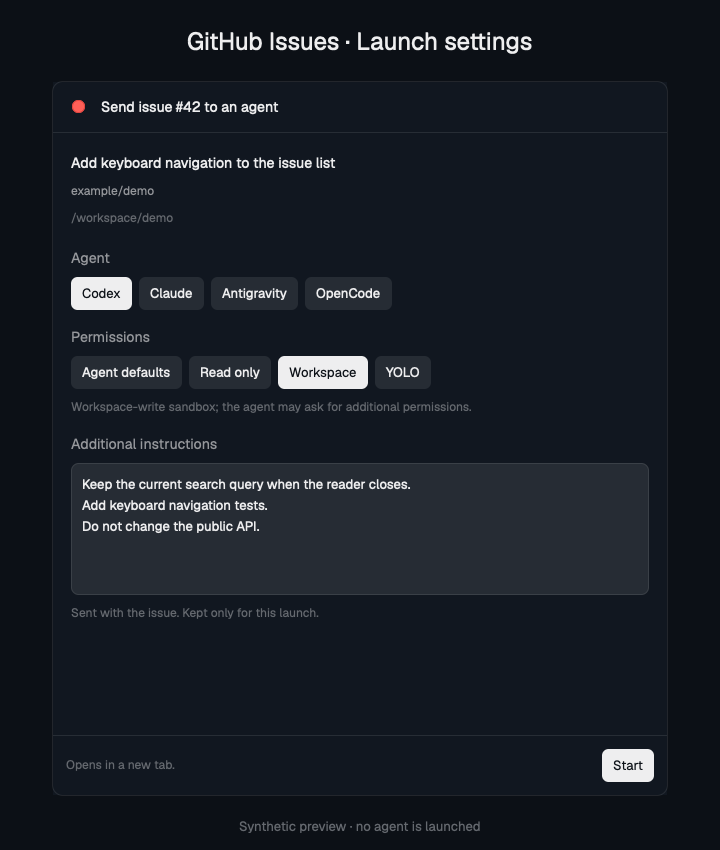
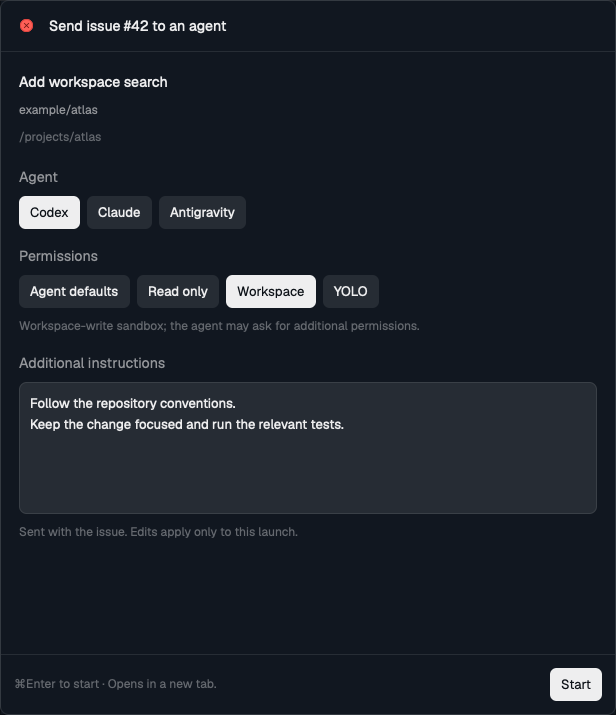
Prioritize working issues and refresh Issues screenshots

diff --git a/github-issues/mods/github-issues/main.js b/github-issues/mods/github-issues/main.js
@@ -44,6 +44,14 @@ export function workingIssueUrls(liveTerminals) {
   return new Set(workingIssueAgents(liveTerminals).keys());
 }
 
+export function prioritizeWorkingIssues(issues, working) {
+  const active = [], other = [];
+  for (const issue of issues) {
+    (working.has(issue.url?.replace(/\/$/, "").toLowerCase()) ? active : other).push(issue);
+  }
+  return [...active, ...other];
+}
+
 export function focusWorkingIssue(url) {
   // Refresh on click: an agent may have finished since this row was drawn.
   const matches = workingIssueAgents(terminals()).get(url?.replace(/\/$/, "").toLowerCase());
@@ -567,7 +575,7 @@ export default class GithubIssues extends View {
       .when(this.prLoading || Boolean(this.prError), el => el.child(div().px(12).pb(8).text_size(11).text_color(this.prError ? t.ansi1 : t.dim).child(this.prError || "Loading linked pull requests…")))
       .child(div().flex_1().min_h(0).relative()
         .child(v_flex().id("github-issue-list").absolute().inset_0().overflow_y_scroll().p(6).gap(4)
-          .children(this.items.map(issue => v_flex().id(`issue-${issue.number}`).flex_none().p(10).gap(5).rounded(7).cursor_pointer()
+          .children(prioritizeWorkingIssues(this.items, working).map(issue => v_flex().id(`issue-${issue.number}`).flex_none().p(10).gap(5).rounded(7).cursor_pointer()
             .hover(s => s.bg(t.hover)).on_click(() => { if (this.context === contextKey()) this.openIssue(issue.number); })
             .child(h_flex().gap(6).items_center()
               .when(working.has(issue.url?.replace(/\/$/, "").toLowerCase()), el => el.child(workingIndicator(issue.number, issue.url)))

diff --git a/github-issues/RECIPE.md b/github-issues/RECIPE.md
@@ -10,7 +10,7 @@ A roughly 368 px panel contains the heading, repository name, Open/Closed/All fi
 
 ## How it behaves
 
-Changing terminal repository discards stale responses. Enter submits search; list refresh is every 60 seconds, 50 issues per page. Clicking a row reads the issue. The green reader control toggles full-window size and preserves loaded content. Red closes; gray minimize is intentionally unavailable. The triangle and the reader’s Start working button open a 560 × 650 launch settings dialog. It contains agent selection, agent-specific permission presets, a 120 px multiline Additional instructions field and a separate Start button. Selecting an agent does not launch it; Start opens one tab pinned to the source space and directory. YOLO changes the action label to Start in YOLO. Switching agents resets permissions; extra instructions remain in the current dialog. New dialogs inherit the agent, permission mode and prompt saved through the header gear. Settings use the same dialog with Save defaults; closing cancels drafts. Defaults persist locally in `github-issues.launch-defaults.v1`, across repositories. Without saved defaults, the first installed agent, Agent defaults and an empty prompt are selected. If a saved agent is missing, show the fallback and reset permissions; never transfer YOLO to another agent. ⌘Enter submits the active dialog; Enter remains a newline in the prompt. Closing the source space prevents launch. A native spinner marks issues with linked working agents. Clicking it rechecks live terminal state and focuses the task agent in Herdr, without opening issue details. Working child agents inherit their task association; blocked, idle, done and exited agents do not spin.
+Changing terminal repository discards stale responses. Enter submits search; list refresh is every 60 seconds, 50 issues per page. Clicking a row reads the issue. The green reader control toggles full-window size and preserves loaded content. Red closes; gray minimize is intentionally unavailable. The triangle and the reader’s Start working button open a 560 × 650 launch settings dialog. It contains agent selection, agent-specific permission presets, a 120 px multiline Additional instructions field and a separate Start button. Selecting an agent does not launch it; Start opens one tab pinned to the source space and directory. YOLO changes the action label to Start in YOLO. Switching agents resets permissions; extra instructions remain in the current dialog. New dialogs inherit the agent, permission mode and prompt saved through the header gear. Settings use the same dialog with Save defaults; closing cancels drafts. Defaults persist locally in `github-issues.launch-defaults.v1`, across repositories. Without saved defaults, the first installed agent, Agent defaults and an empty prompt are selected. If a saved agent is missing, show the fallback and reset permissions; never transfer YOLO to another agent. ⌘Enter submits the active dialog; Enter remains a newline in the prompt. Closing the source space prevents launch. A native spinner marks issues with linked working agents. Those issues sort to the top of the loaded results, retaining relative order within each group. Clicking it rechecks live terminal state and focuses the task agent in Herdr, without opening issue details. Working child agents inherit their task association; blocked, idle, done and exited agents do not spin.
 
 ## Built from
 

diff --git a/github-issues/README.md b/github-issues/README.md
@@ -32,13 +32,15 @@ The triangle on a row and **Start working…** in the reader open the same launc
 
 Open the gear beside Refresh to set the **Default agent**, **Default permissions**, and **Default additional instructions**. **Save defaults** (or **⌘Enter**) stores them locally for new launches across repositories; closing cancels edits. **Reset** clears the draft to the first installed agent, Agent defaults, and an empty prompt; save to apply it. Settings never launch an agent.
 
+![Synthetic default launch settings preview](default-settings.png)
+
 New launch dialogs inherit these widget defaults. Changes made in a launch dialog apply only to that issue. Switching agents resets permissions to Agent defaults while preserving the prompt. If the saved agent is unavailable on the target machine, the dialog explains the fallback and uses Agent defaults; saved YOLO never transfers to a different agent. Additional instructions are appended literally to the issue task. No global agent configuration is edited. Read only/Plan asks for investigation and a proposed plan. The issue alone does not grant publishing or deployment permission.
 
 Widget defaults are stored by Herdr under `github-issues.launch-defaults.v1` and survive restarts.
 
 Access: runs read-only `gh repo view`, `gh issue list/view`, and `gh api graphql` queries, then Herdr `tab.new` only after agent selection. Issue content is untrusted task material. No credentials are bundled or written. Run `node --test github-issues/tests/*.test.mjs` from the repository root.
 
-A native spinning circle marks an issue while a linked live agent reports `working`.
+A native spinning circle marks an issue while a linked live agent reports `working`. Working issues appear first in the loaded list; relative order within working and other issues is preserved.
 The link comes from the launcher's original task URL (host, repository and issue),
 including existing sessions and their child terminals; tab renames and worktrees do
 not affect it. Idle, blocked, done and exited agents do not keep the circle spinning.

diff --git a/README.md b/README.md
@@ -4,7 +4,7 @@ Three independent packages for the native [Herdr App](https://herdr.dev), tested
 
 | Package | What it adds |
 |---|---|
-| [GitHub Issues](github-issues/) | Issues beside Files/Changes, labels, linked PRs, Markdown reader and agent handoff |
+| [GitHub Issues](github-issues/) | Issues beside Files/Changes, working issues first, linked PRs, Markdown reader and configurable agent handoff |
 | [AI Limits](ai-limits/) | Installed-agent discovery, quota usage, reset times and compact mode |
 | [Agents Context Window Progress](agents-context-window-progress/) | Context bars, working shimmer and pulsing input-needed indicator |
 
@@ -14,9 +14,11 @@ Native widget screenshots with synthetic example data.
 
 ### GitHub Issues
 
-![GitHub Issues list and issue reader with labels and linked pull requests](github-issues/preview.png)
+![GitHub Issues with working issues first, labels and linked pull requests](github-issues/preview.png)
 
 ![Issue launch settings with permissions and additional instructions](github-issues/launch-settings.png)
+
+![Saved default agent, permissions and prompt in Issues settings](github-issues/default-settings.png)
 
 ### AI Limits
 
